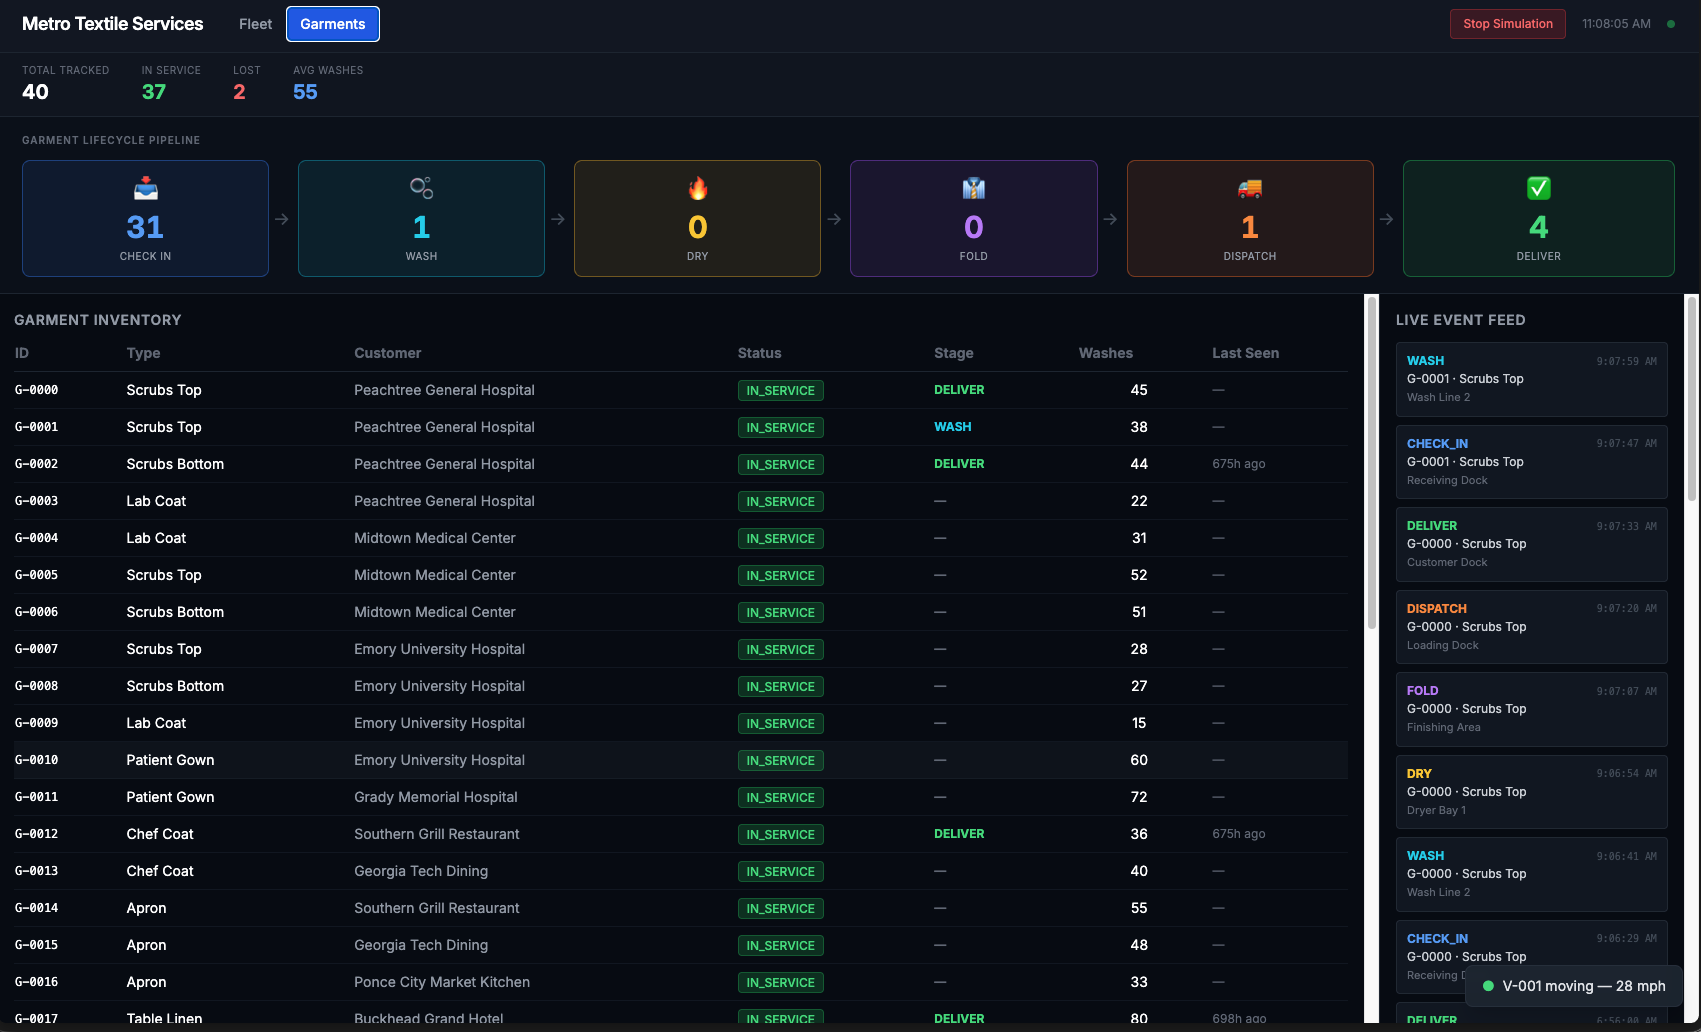
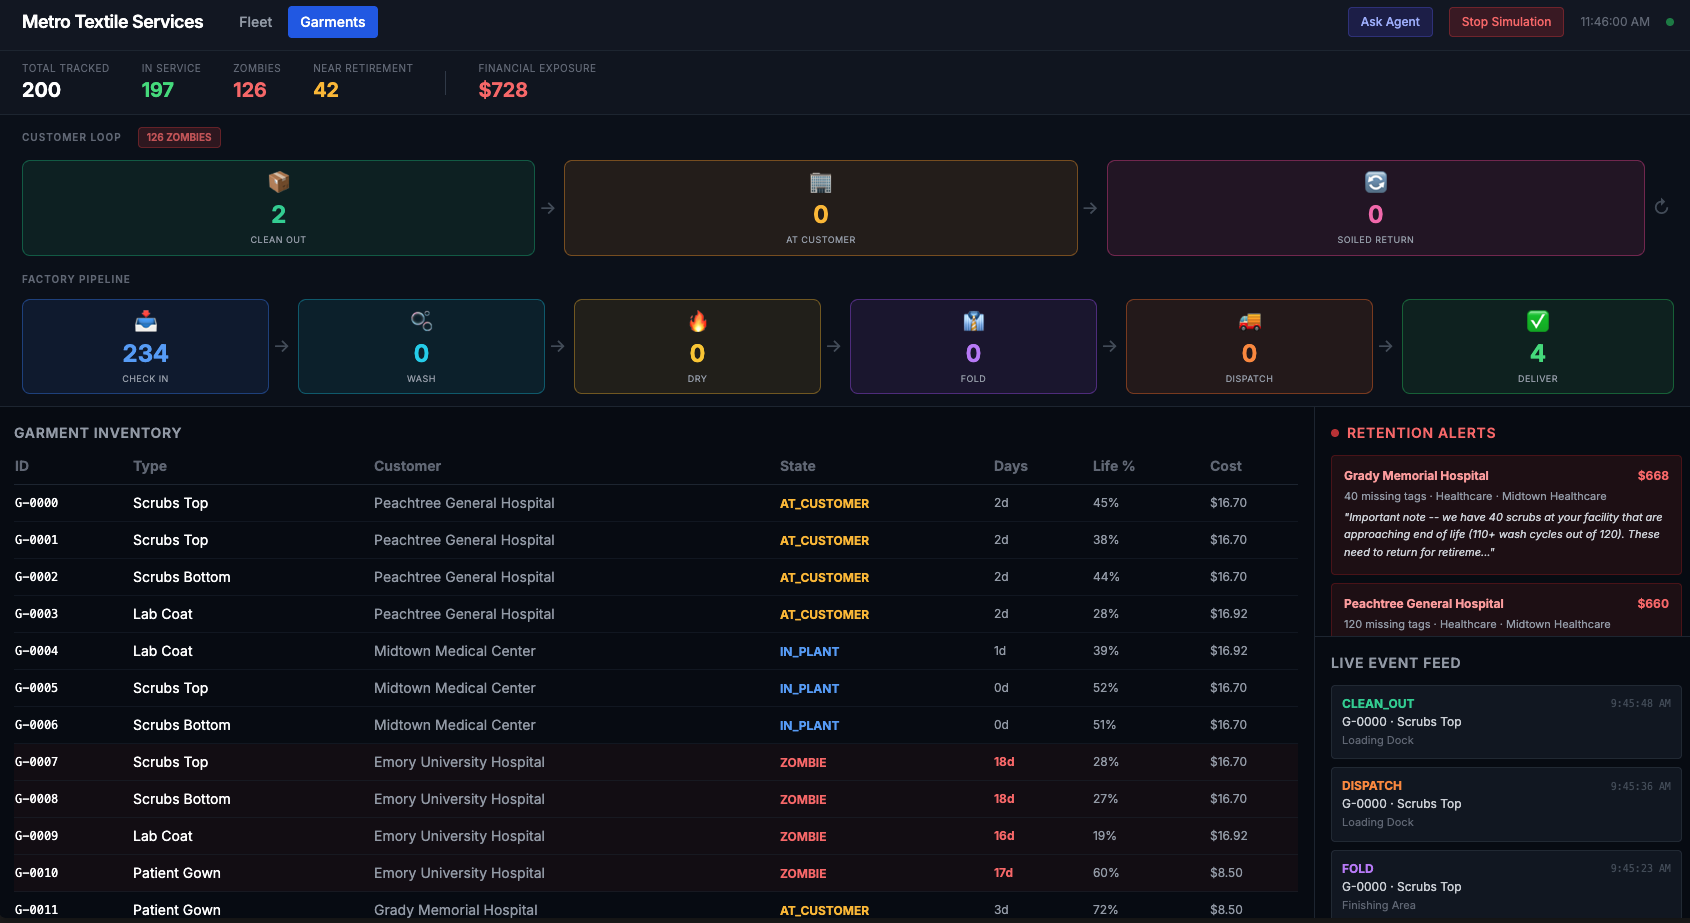
feat(garment): add zombie summary API and update README with agent screenshots

diff --git a/demo-iot-lifecycle/app/frontend/src/components/GarmentPage.tsx b/demo-iot-lifecycle/app/frontend/src/components/GarmentPage.tsx
@@ -1,5 +1,5 @@
 import { useState, useEffect, useCallback, useRef } from 'react';
-import type { Garment, GarmentEvent, RetentionAlert } from '../App';
+import type { Garment, GarmentEvent, RetentionAlert, ZombieSummary } from '../App';
 
 const POLL_INTERVAL_MS = 5000;
 
@@ -62,18 +62,22 @@ export default function GarmentPage({ onToast }: { onToast: (msg: string) => voi
   const [pulsingStage, setPulsingStage] = useState<string | null>(null);
   const prevEventCountRef = useRef(0);
 
+  const [zombieSummary, setZombieSummary] = useState<ZombieSummary>({ zombie_count: 0, total_exposure_usd: 0, avg_days_stalled: 0 });
+
   const fetchData = useCallback(async () => {
     try {
-      const [gRes, eRes, pRes, aRes] = await Promise.all([
+      const [gRes, eRes, pRes, aRes, zRes] = await Promise.all([
         fetch('/api/garments'),
         fetch('/api/garment-events'),
         fetch('/api/garment-pipeline'),
         fetch('/api/retention-alerts'),
+        fetch('/api/zombie-summary'),
       ]);
       const newGarments = await gRes.json();
       const newEvents: GarmentEvent[] = await eRes.json();
       const newPipeline: PipelineData = await pRes.json();
       const newAlerts: RetentionAlert[] = await aRes.json();
+      const newZombieSummary: ZombieSummary = await zRes.json();
 
       if (prevEventCountRef.current > 0 && newEvents.length > 0) {
         const newCount = newEvents[0].event_id;
@@ -92,6 +96,7 @@ export default function GarmentPage({ onToast }: { onToast: (msg: string) => voi
       setEvents(newEvents);
       setPipeline(newPipeline);
       setAlerts(newAlerts);
+      setZombieSummary(newZombieSummary);
     } catch (e) {
       console.error('Failed to fetch garment data', e);
     }
@@ -116,11 +121,9 @@ export default function GarmentPage({ onToast }: { onToast: (msg: string) => voi
 
   const totalGarments = garments.length;
   const inService = garments.filter(g => g.status === 'IN_SERVICE').length;
-  const zombieCount = garments.filter(g => g.lifecycle_state === 'ZOMBIE').length;
+  const zombieCount = zombieSummary.zombie_count;
   const nearRetirement = garments.filter(g => g.wash_cycle_pct >= 90).length;
-  const totalExposure = garments
-    .filter(g => g.lifecycle_state === 'ZOMBIE')
-    .reduce((sum, g) => sum + g.replacement_cost, 0);
+  const totalExposure = zombieSummary.total_exposure_usd;
 
   return (
     <div className="flex-1 flex flex-col overflow-hidden">

diff --git a/demo-iot-lifecycle/README.md b/demo-iot-lifecycle/README.md
@@ -11,9 +11,17 @@ End-to-end IoT lifecycle demonstration for **Metro Textile Services**, a fiction
 |-----------|---------------------------|
 | ![Fleet Map](images/fleet-map.png) | ![Garment Pipeline](images/garment-pipeline.png) |
 
-**Fleet Map** — Live vehicle positions on an OpenStreetMap Atlanta base layer (deck.gl ScatterplotLayer). Customer dots are color-coded by risk band: red = zombie cluster, yellow = elevated risk, green = golden customer. KPI bar shows fleet status + zombie count + financial exposure in real time.
+**Fleet Map** — Live vehicle positions on an OpenStreetMap Atlanta base layer (deck.gl ScatterplotLayer). Customer dots are color-coded by risk band: red = zombie cluster, yellow = elevated risk, green = golden customer. KPI bar shows fleet metrics, zombie garment count (169), and financial exposure ($1,048). "Ask Agent" button links to Snowflake Intelligence.
 
-**Garment Pipeline** — Visual Customer Loop (CLEAN_OUT → AT_CUSTOMER → SOILED_RETURN) with animated zombie badge, factory pipeline (CHECK_IN → WASH → DRY → FOLD → DISPATCH → DELIVER), retention alerts panel with driver talking points, and inventory table showing lifecycle state, days-at-location, and wash-cycle-% of useful life.
+**Garment Pipeline** — Customer Loop (CLEAN OUT → AT CUSTOMER → SOILED RETURN) with animated "126 ZOMBIES" badge, factory pipeline (CHECK IN → WASH → DRY → FOLD → DISPATCH → DELIVER), Retention Alerts panel with $ save values and driver talking points, and inventory table with lifecycle state color-coding (ZOMBIE in red, AT_CUSTOMER in amber, IN_PLANT in blue), days-at-location highlights (>14d red), and Life % column.
+
+| CFO Agent | Operations Agent |
+|-----------|-----------------|
+| ![CFO Agent](images/cfo-agent.png) | ![Operations Agent](images/operations-agent.png) |
+
+**CFO Agent** — Snowflake Intelligence answering "Identifying Most Profitable Customers" with healthcare invoice breakdown by payment status (PAID vs PENDING), stacked bar chart, and narrative analysis showing 82.4% collection rate.
+
+**Operations Agent** — Snowflake Intelligence answering "What are the top 3 silent operational leaks right now?" with zombie cluster table (Peachtree General 120 zombies/$660, Dunwoody Hilton 26/$263, Smyrna Collision 19/$66.50), key observations, and recovery recommendations.
 
 ## What It Does
 